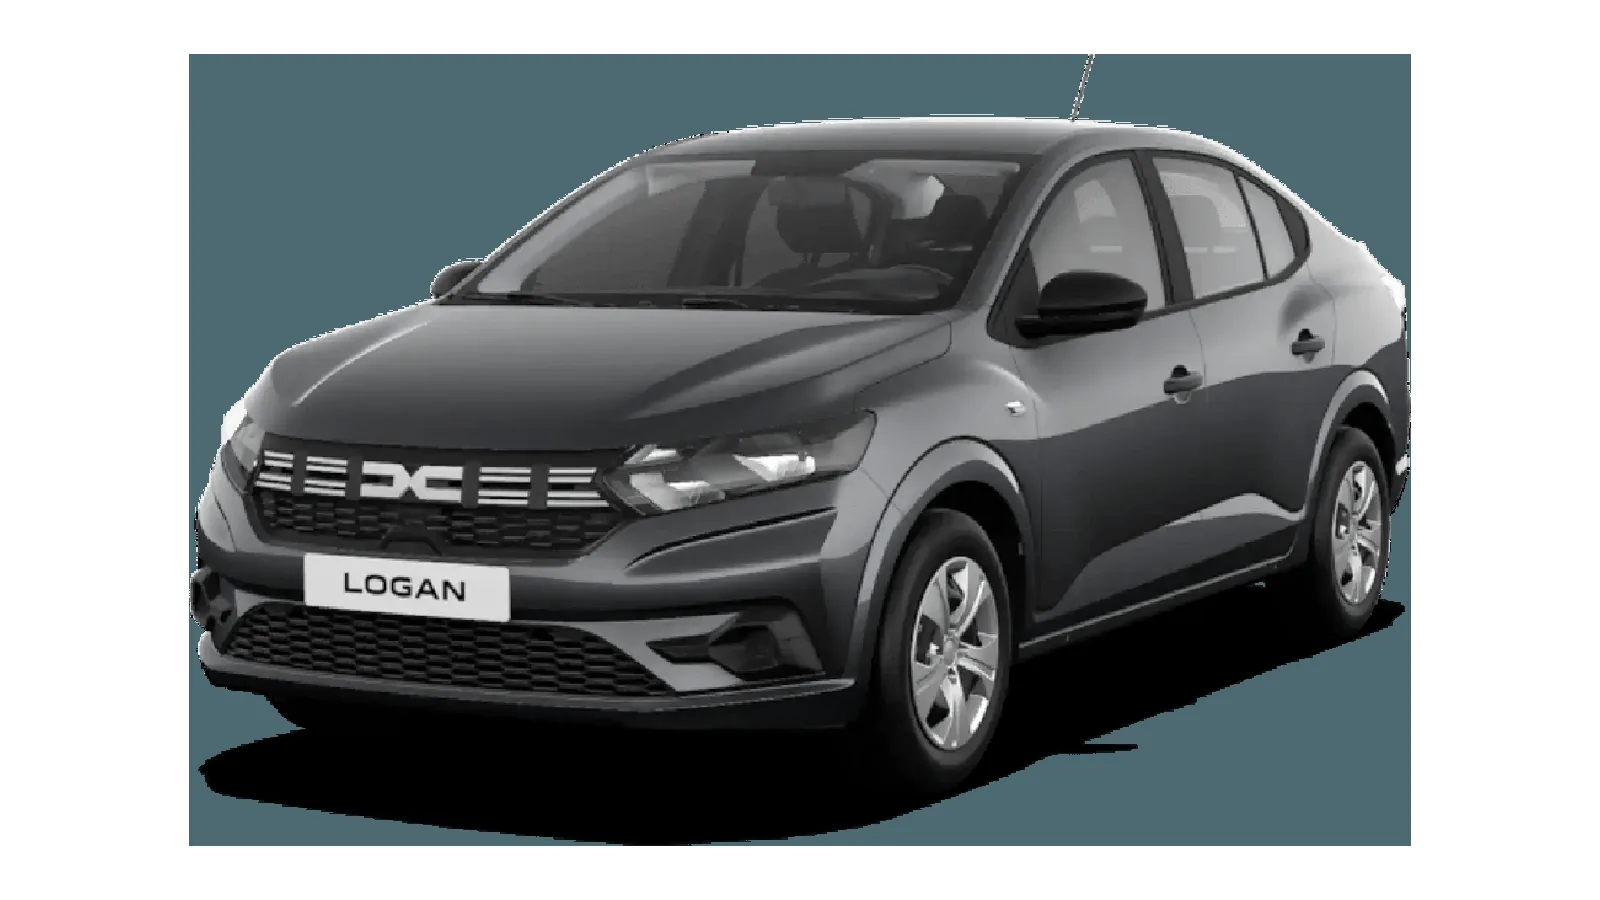
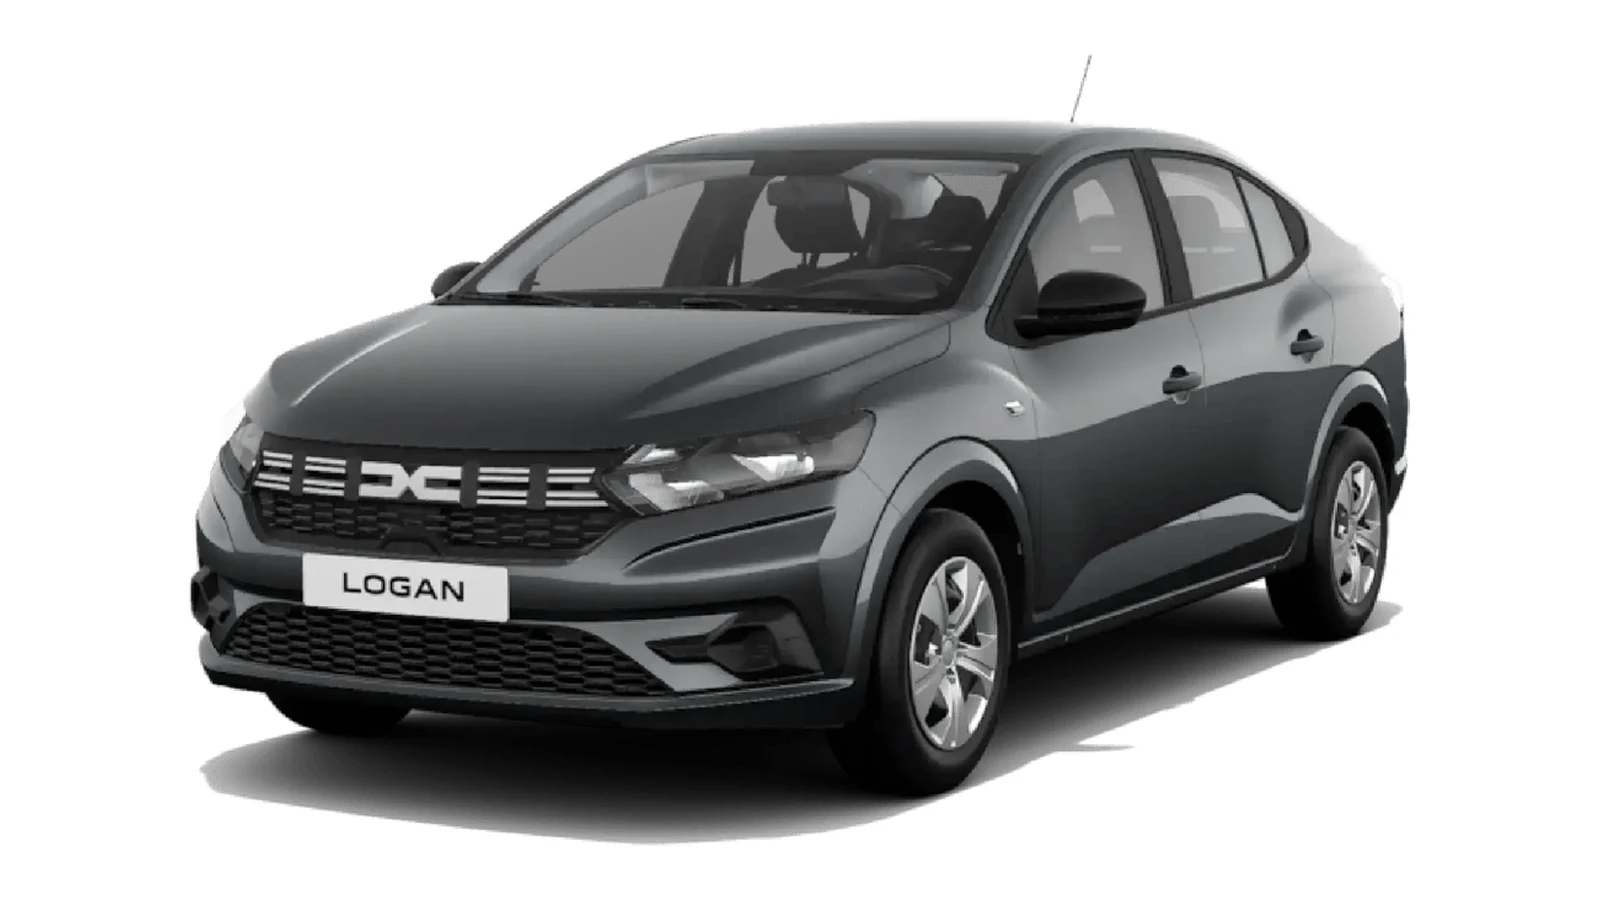
Fix fleet card images and replace News covers with owner photos
- Rebuild the Logan card on pure white with natural proportions and clean edges
- Replace the Kia Sportage plate with a clean CARZIO plate
- Rebuild six News covers from allowed owner folders and update FR/EN alt text
- Add the missing Duster 2026 manual card description in all five languages

diff --git a/src/data/carAds.ts b/src/data/carAds.ts
@@ -91,6 +91,17 @@ const fr: Record<string, CarAd> = {
       "Service 24/7 uniquement à l'aéroport Agadir Al Massira",
     ],
   },
+  'dacia-duster-manual': {
+    pitch:
+      "Le Duster 2026 en boîte manuelle : le SUV cinq places polyvalent pour Agadir, la côte et les routes de l'Atlas. Coffre généreux, climatisation et kilométrage illimité.",
+    bullets: [
+      'Bons tarifs pour nos clients',
+      'SUV 5 places, boîte manuelle',
+      'Coffre généreux pour les bagages',
+      "Livraison gratuite à l'aéroport d'Agadir et à l'agence",
+      "Service 24/7 uniquement à l'aéroport Agadir Al Massira",
+    ],
+  },
   'dacia-jogger': {
     pitch:
       "La voiture 7 places la plus maligne pour les familles et les amis : espace XXL pour les bagages, kilométrage illimité et confort royal.",
@@ -222,6 +233,17 @@ const en: Record<string, CarAd> = {
       'Good prices for our clients',
       'Rugged automatic SUV',
       'Built-in GPS and touchscreen',
+      'Free delivery at Agadir airport & agency',
+      '24/7 service only at Agadir Al Massira airport',
+    ],
+  },
+  'dacia-duster-manual': {
+    pitch:
+      'The 2026 Duster with manual gearbox: a versatile five-seat SUV for Agadir, the coast and the Atlas roads. Generous boot, air conditioning and unlimited mileage.',
+    bullets: [
+      'Good prices for our clients',
+      'Five-seat manual SUV',
+      'Generous boot for luggage',
       'Free delivery at Agadir airport & agency',
       '24/7 service only at Agadir Al Massira airport',
     ],
@@ -361,6 +383,17 @@ const de: Record<string, CarAd> = {
       '24/7 Service nur am Flughafen Agadir Al Massira',
     ],
   },
+  'dacia-duster-manual': {
+    pitch:
+      'Der Duster 2026 mit Schaltgetriebe: ein vielseitiges Fünf-Sitzer-SUV für Agadir, die Küste und die Atlasstraßen. Großzügiger Kofferraum, Klimaanlage und unbegrenzte Kilometer.',
+    bullets: [
+      'Gute Preise für unsere Kunden',
+      'Fünf-Sitzer-SUV mit Schaltgetriebe',
+      'Großzügiger Kofferraum für Gepäck',
+      'Kostenlose Lieferung am Flughafen Agadir & in der Agentur',
+      '24/7 Service nur am Flughafen Agadir Al Massira',
+    ],
+  },
   'dacia-jogger': {
     pitch:
       'Das cleverste 7-Sitzer für große Familien und Gruppen: XL-Gepäckraum, unbegrenzte Kilometer und exzellenter Komfort.',
@@ -492,6 +525,17 @@ const es: Record<string, CarAd> = {
       'Buenos precios para nuestros clientes',
       'SUV robusto, automático',
       'GPS integrado y pantalla táctil',
+      'Entrega gratuita en el aeropuerto de Agadir y en la agencia',
+      'Servicio 24/7 solo en el aeropuerto Agadir Al Massira',
+    ],
+  },
+  'dacia-duster-manual': {
+    pitch:
+      'El Duster 2026 con cambio manual: un SUV versátil de cinco plazas para Agadir, la costa y las carreteras del Atlas. Maletero amplio, aire acondicionado y kilometraje ilimitado.',
+    bullets: [
+      'Buenos precios para nuestros clientes',
+      'SUV de cinco plazas, cambio manual',
+      'Maletero amplio para el equipaje',
       'Entrega gratuita en el aeropuerto de Agadir y en la agencia',
       'Servicio 24/7 solo en el aeropuerto Agadir Al Massira',
     ],
@@ -631,6 +675,17 @@ const pl: Record<string, CarAd> = {
       'Serwis 24/7 tylko na lotnisku Agadir Al Massira',
     ],
   },
+  'dacia-duster-manual': {
+    pitch:
+      'Duster 2026 z manualną skrzynią biegów: wszechstronny pięciomiejscowy SUV na Agadir, wybrzeże i trasy Atlasu. Pojemny bagażnik, klimatyzacja i nielimitowany przebieg.',
+    bullets: [
+      'Dobre ceny dla naszych klientów',
+      'Pięciomiejscowy SUV z manualną skrzynią',
+      'Pojemny bagażnik na bagaże',
+      'Bezpłatna dostawa na lotnisko Agadir i do agencji',
+      'Serwis 24/7 tylko na lotnisku Agadir Al Massira',
+    ],
+  },
   'dacia-jogger': {
     pitch:
       'Najmądrzejszy 7-miejscowy dla dużych rodzin i grup: XXL przestrzeń na bagaż, nielimitowany przebieg i pierwszorzędny komfort.',
@@ -696,6 +751,7 @@ export const carAds: Record<string, Record<CarAdLang, CarAd>> = {
   'peugeot-208': { fr: fr['peugeot-208'], en: en['peugeot-208'], de: de['peugeot-208'], es: es['peugeot-208'], pl: pl['peugeot-208'] },
   'renault-clio-5': { fr: fr['renault-clio-5'], en: en['renault-clio-5'], de: de['renault-clio-5'], es: es['renault-clio-5'], pl: pl['renault-clio-5'] },
   'dacia-duster-bva': { fr: fr['dacia-duster-bva'], en: en['dacia-duster-bva'], de: de['dacia-duster-bva'], es: es['dacia-duster-bva'], pl: pl['dacia-duster-bva'] },
+  'dacia-duster-manual': { fr: fr['dacia-duster-manual'], en: en['dacia-duster-manual'], de: de['dacia-duster-manual'], es: es['dacia-duster-manual'], pl: pl['dacia-duster-manual'] },
   'dacia-jogger': { fr: fr['dacia-jogger'], en: en['dacia-jogger'], de: de['dacia-jogger'], es: es['dacia-jogger'], pl: pl['dacia-jogger'] },
   'kia-sportage': { fr: fr['kia-sportage'], en: en['kia-sportage'], de: de['kia-sportage'], es: es['kia-sportage'], pl: pl['kia-sportage'] },
   'vw-troc-automatic': { fr: fr['vw-troc-automatic'], en: en['vw-troc-automatic'], de: de['vw-troc-automatic'], es: es['vw-troc-automatic'], pl: pl['vw-troc-automatic'] },

diff --git a/src/content/news/categories.ts b/src/content/news/categories.ts
@@ -19,8 +19,8 @@ export interface NewsCategory {
 export const newsCategories: NewsCategory[] = [
   {
     slug: 'conduite-maroc',
-    image: '/images/journal/news-country-road.webp',
-    imageAlt: { fr: "Voiture sur une route de campagne", en: "Car on a country road" },
+    image: '/images/journal/news-driving-morocco.webp',
+    imageAlt: { fr: "Voiture Carzio avec des voyageurs", en: "Carzio car with travellers" },
     fr: {
       name: 'Conduire au Maroc',
       description:
@@ -34,8 +34,8 @@ export const newsCategories: NewsCategory[] = [
   },
   {
     slug: 'securite-regles',
-    image: '/images/journal/news-headlight-safety.webp',
-    imageAlt: { fr: "Phare de voiture allumé au coucher du soleil", en: "Car headlight switched on at sunset" },
+    image: '/images/journal/news-road-signs.webp',
+    imageAlt: { fr: "Kia Sportage blanc de la flotte Carzio", en: "White Kia Sportage from the Carzio fleet" },
     fr: {
       name: 'Sécurité & règles',
       description:

diff --git a/docs/image-inventory.md b/docs/image-inventory.md
@@ -24,8 +24,8 @@ Both are 16:9 WebP derivatives with a subtle Carzio logo watermark.
 | `carzio-grey-fleet-airport.webp` | `news blog/16.24.23.jpeg` | Blog category: Insurance & excess |
 | `carzio-grey-fleet-vertical.webp` | `news blog/16.24.24 (2).jpeg` | Blog category: Age, licence & driving |
 | `carzio-new-routes.webp` | `New image/16.24.24.jpeg` | News hub hero |
-| `news-country-road.webp` | `public/images/5.jpg` | News category: Driving in Morocco |
-| `news-headlight-safety.webp` | `public/images/4.jpg` | News category: Safety & rules |
+| `news-driving-morocco.webp` | `inspiration/WhatsApp Image 2026-11-08 at 19.10.44.jpeg` | News category: Driving in Morocco |
+| `news-road-signs.webp` | `inspiration/WhatsApp Image 2026-11-08 at 19.10.46 (7).jpeg` | News category: Safety & rules |
 | `carzio-inspection-pair.webp` | `news blog/16.24.24 (1).jpeg` | News category: Insurance & deposit |
 | `carzio-documents-airport.webp` | `New image/16.22.14 (3).jpeg` | News category: Booking & paperwork |
 | `carzio-airport-fleet.webp` | `New image/16.24.24 (2).jpeg` | News category: Airports & pickup |
@@ -36,16 +36,16 @@ Both are 16:9 WebP derivatives with a subtle Carzio logo watermark.
 | `carzio-junior-pro.webp` | `inspiration/19.10.45.jpeg` | News category: Events & seasons |
 | `dacia-sandero-streetway.webp` | `public/images/dacia-sandero-streetway.jpg` | News category: Budget & practical tips |
 | `news-agadir-marina.webp` | `public/images/puerto-deportivo-agadir.jpg` | News: Agadir, Marrakech, Essaouira |
-| `carzio-sportage-white.webp` | `inspiration/19.10.46 (7).jpeg` | News: Full insurance from 5 days |
+| `news-family-airport.webp` | `news blog/Carzio at Agadir Airport.png` | News: Full insurance from 5 days |
 | `hyundai-i10.webp` | `public/images/hyundai-i10-bva.png` | News: Car rental budget in Agadir |
-| `news-key-handover.webp` | `public/images/2.jpg` | News: 0 MAD deposit |
-| `news-desert-road.webp` | `public/images/111.jpg` | News: Driving in Morocco |
+| `news-payment-terminal.webp` | `inspiration/WhatsApp Image 2026-11-08 at 19.00.13.jpeg` | News: 0 MAD deposit |
+| `news-driving-road.webp` | `inspiration/WhatsApp Image 2026-11-08 at 19.10.46.jpeg` | News: Driving in Morocco |
 | `carzio-munich-route.webp` | `inspiration/19.10.45 (1).jpeg` | News: When to rent a car in Agadir |
 | `touchscreen-navigation.webp` | internet (see above) | News: GPS and touchscreen |
 | `carzio-airport-jogger.webp` | `inspiration/19.10.44 (2).jpeg` | News: Agadir Al Massira airport delivery |
 | `carzio-boot-check.webp` | `inspiration/19.10.47.jpeg` | News: Renting a car with children |
 | `news-beach-convoy.webp` | `public/images/tamraght_beach.png` | News: Road trips from Agadir |
-| `news-duster-track.webp` | `public/images/7.jpg` | News: Road safety in Morocco |
+| `news-pedestrian-safety.webp` | `inspiration/WhatsApp Image 2026-11-08 at 19.05.33.jpeg` | News: Road safety in Morocco |
 | `faq-rental-advisor.webp` | `public/images/about.jpg` | FAQ category: Booking & payment |
 | `carzio-grey-fleet-front.webp` | `inspiration/19.10.45 (4).jpeg` | FAQ category: Age, licence & drivers |
 | `faq-car-ready.webp` | `public/images/55.jpg` | FAQ category: Insurance & excess |
@@ -61,7 +61,7 @@ All car-card images are 16:9 WebP on a pure white background, trimmed and enlarg
 
 `dacia-sandero-stepway.webp`, `dacia-sandero-streetway.webp`, `dacia-logan.webp`, `dacia-duster-automatic-2025.webp`, `dacia-duster-manual-2026.webp`, `dacia-jogger.webp`, `renault-clio-5.webp`, `peugeot-208.webp`, `hyundai-i10.webp`, `vw-troc.webp`, `kia-sportage.webp`, `hyundai-tucson.webp`.
 
-The Kia Sportage derivative has a clean white Moroccan-style plate with no readable registration number.
+The Kia Sportage derivative has a clean white plate with black `CARZIO` lettering in place of the registration number.
 
 ## Hero slides
 

diff --git a/src/content/news/fr/assurance-complete-cinq-jours.md b/src/content/news/fr/assurance-complete-cinq-jours.md
@@ -5,8 +5,8 @@ category: assurance-caution
 title: "Assurance complète dès 5 jours : comment ça marche"
 description: "Assurance standard incluse, assurance complète en option à partir de 5 jours facturés. Le point en clair, avec un exemple de calcul."
 date: 2026-11-03
-image: /images/journal/carzio-sportage-white.webp
-imageAlt: "Kia Sportage blanche prête pour la location"
+image: /images/journal/news-family-airport.webp
+imageAlt: "Famille récupérant sa voiture à l'aéroport d'Agadir"
 readingTime: 4
 featured: true
 published: true

diff --git a/src/content/news/fr/caution-zero-mad.md b/src/content/news/fr/caution-zero-mad.md
@@ -5,8 +5,8 @@ category: reservation-documents
 title: "0 MAD de caution : comment se passe le paiement"
 description: "Aucune caution, aucun blocage de carte, carte de débit acceptée. Le paiement se fait à la remise des clés, avec les documents à prévoir."
 date: 2026-11-03
-image: /images/journal/news-key-handover.webp
-imageAlt: "Remise des clés au comptoir de location"
+image: /images/journal/news-payment-terminal.webp
+imageAlt: "Page de réservation Carzio avec un prix en MAD"
 readingTime: 3
 featured: false
 published: true

diff --git a/src/content/news/fr/conduire-au-maroc-essentiel.md b/src/content/news/fr/conduire-au-maroc-essentiel.md
@@ -5,8 +5,8 @@ category: conduite-maroc
 title: "Conduire au Maroc : ce qu'il faut savoir avant de louer"
 description: "Routes, stationnement, sécurité et habitudes locales : les points clés pour conduire sereinement une voiture de location au Maroc."
 date: 2026-11-05
-image: /images/journal/news-desert-road.webp
-imageAlt: "Voiture sur une route ouverte au coucher du soleil"
+image: /images/journal/news-driving-road.webp
+imageAlt: "Affiche Carzio de la nouvelle route directe Milan–Agadir"
 readingTime: 5
 published: true
 ---

diff --git a/src/content/news/fr/securite-routiere-maroc-essentiel.md b/src/content/news/fr/securite-routiere-maroc-essentiel.md
@@ -5,8 +5,8 @@ category: securite-regles
 title: "Sécurité routière au Maroc : les règles essentielles"
 description: "Vitesses, contrôles, stationnement et bons réflexes en cas d'incident : l'essentiel sécurité pour louer et conduire une voiture au Maroc."
 date: 2026-11-05
-image: /images/journal/news-duster-track.webp
-imageAlt: "Dacia Duster sur une piste en terre"
+image: /images/journal/news-pedestrian-safety.webp
+imageAlt: "Applications de navigation sur un téléphone"
 readingTime: 5
 published: true
 ---

diff --git a/src/content/news/en/assurance-complete-cinq-jours.md b/src/content/news/en/assurance-complete-cinq-jours.md
@@ -5,8 +5,8 @@ category: assurance-caution
 title: "Full insurance from 5 days: how it works"
 description: "Standard insurance included, full insurance optional from 5 billed days. The plain version, with a worked example."
 date: 2026-11-03
-image: /images/journal/carzio-sportage-white.webp
-imageAlt: "White Kia Sportage ready for rental"
+image: /images/journal/news-family-airport.webp
+imageAlt: "Family collecting their car at Agadir airport"
 readingTime: 4
 featured: true
 published: true

diff --git a/src/content/news/en/conduire-au-maroc-essentiel.md b/src/content/news/en/conduire-au-maroc-essentiel.md
@@ -5,8 +5,8 @@ category: conduite-maroc
 title: "Driving in Morocco: what to know before you rent"
 description: "Roads, parking, safety and local habits: the key points for driving calmly in a rental car in Morocco."
 date: 2026-11-05
-image: /images/journal/news-desert-road.webp
-imageAlt: "Car on an open road at sunset"
+image: /images/journal/news-driving-road.webp
+imageAlt: "Carzio poster for the new Milan–Agadir direct route"
 readingTime: 5
 published: true
 ---

diff --git a/src/content/news/en/securite-routiere-maroc-essentiel.md b/src/content/news/en/securite-routiere-maroc-essentiel.md
@@ -5,8 +5,8 @@ category: securite-regles
 title: "Road safety in Morocco: the essential rules"
 description: "Speed limits, checks, parking and the right reflexes if something happens: safety essentials for renting and driving in Morocco."
 date: 2026-11-05
-image: /images/journal/news-duster-track.webp
-imageAlt: "Dacia Duster on a dirt track"
+image: /images/journal/news-pedestrian-safety.webp
+imageAlt: "Navigation apps on a phone"
 readingTime: 5
 published: true
 ---

diff --git a/src/content/news/en/caution-zero-mad.md b/src/content/news/en/caution-zero-mad.md
@@ -5,8 +5,8 @@ category: reservation-documents
 title: "0 MAD deposit: how payment works"
 description: "No deposit, no card hold, debit cards accepted. Payment at key handover, plus the documents to bring."
 date: 2026-11-03
-image: /images/journal/news-key-handover.webp
-imageAlt: "Key handover at the rental desk"
+image: /images/journal/news-payment-terminal.webp
+imageAlt: "Carzio booking page with a price in MAD"
 readingTime: 3
 featured: false
 published: true
